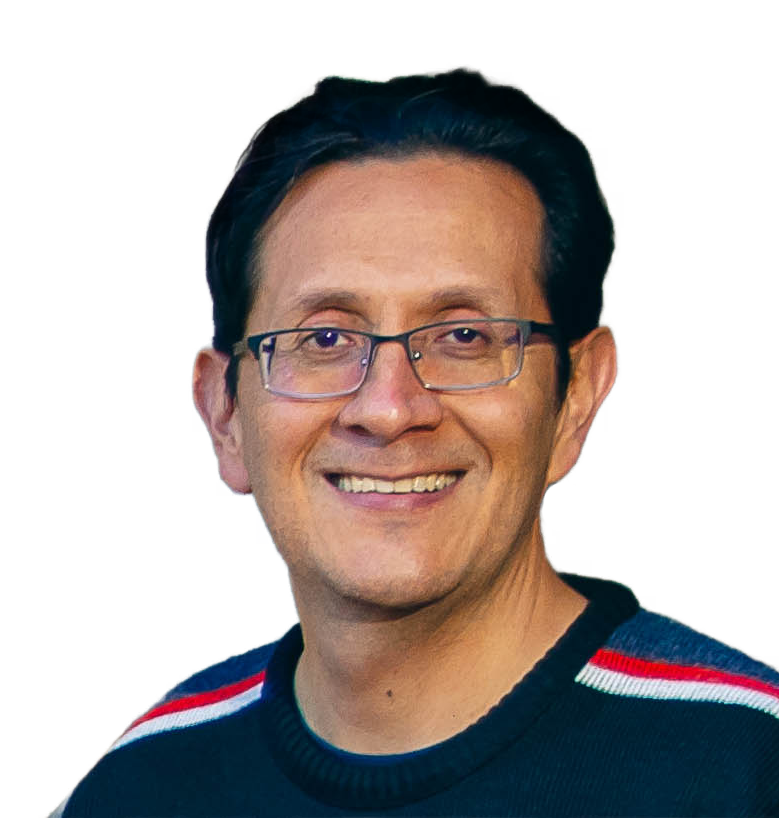
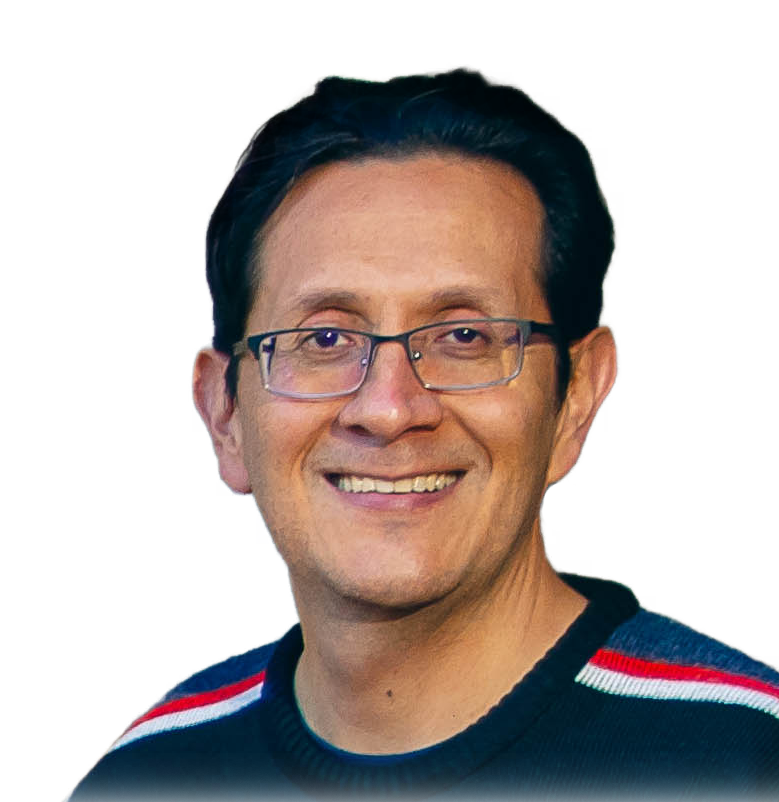
hero section layout done

diff --git a/styles.css b/styles.css
@@ -34,7 +34,7 @@ body {
     display: flex;
     flex-direction: column;
     align-items: center;
-    justify-content: center;
+    justify-content: flex-start;
 }
 
 header {
@@ -42,10 +42,13 @@ header {
     display: flex;
     align-items: center;
     justify-content: space-between;
-    background-color: #041e46d1;
+    background-color: rgb(4 30 70 / 40%);
     padding: 1% 4%;
     font-size: 1rem;
     border-radius: 10px;
+    backdrop-filter: blur(1em);
+    position: fixed;
+    z-index: 1;
 }
 
 .logo {
@@ -71,16 +74,19 @@ nav button {
     border-radius: 10px;
     color: #E9E6E6;
     font-size: 1rem;
+    letter-spacing: 0.2em;
 }
 
 main {
     width: 100%;
+    margin-top: 4%;
 }
 
 .hero {
     display: flex;
     align-items: center;
     justify-content: space-between;
+    position: relative;
 }
 
 .hero-left {
@@ -94,6 +100,10 @@ main {
 
 h1 {
     font-size: 8rem;
+    background: linear-gradient(180deg, #9747FF 0%, #00AFAA 100%);
+    background-clip: text;
+    -webkit-background-clip: text;
+    -webkit-text-fill-color: transparent;
 }
 
 .hero-left p {
@@ -127,23 +137,51 @@ h1 {
 
 
 .hero-right {
-    position: relative;
+    /* position: relative; */
     width: 50%;
-    display: flex;
+    /* display: flex;
     align-items: center;
-    justify-content: flex-end;
+    justify-content: flex-end; */
 }
 
 .gradient {
-    width: 500px;
-    height: 500px;
+    width: 100%;
+    height: 430px;
     background: linear-gradient(90deg, #9747ff, #097b78);
     filter: blur(160px);
 }
 
 .hero-img {
     position: absolute;
-    top: 20%;
+    bottom: 0;
     right: 0;
     width: 35%;
+}
+
+.separator-bar {
+    background: linear-gradient(0deg, rgba(4, 8, 13, 0) 0%, rgba(4, 8, 13, 1) 50%, rgba(4, 8, 13, 0) 100%);
+    display: flex;
+    align-items: center;
+    justify-content: center;
+    position: relative;
+    z-index: 1;
+    padding: 3% 0;
+}
+
+.mouse-icon {
+    width: 1%;
+    animation: scroll 2s infinite linear;
+}
+
+@keyframes scroll {
+    0% {
+        transform: translateY(-300%);
+    }
+
+    50% {
+        transform: translateY(0);
+    }
+    100% {
+        transform: translateY(-300%)
+    }
 }

diff --git a/index.html b/index.html
@@ -36,6 +36,9 @@
                 </div>
                 <img class="hero-img" src="images/Omar-portfolio_portrait.webp" alt="">
             </section>
+            <div class="separator-bar">
+                <img src="images/mouse.webp" alt="mouse icon" class="mouse-icon">
+            </div>
         </main>
         <footer></footer>
     </div>
